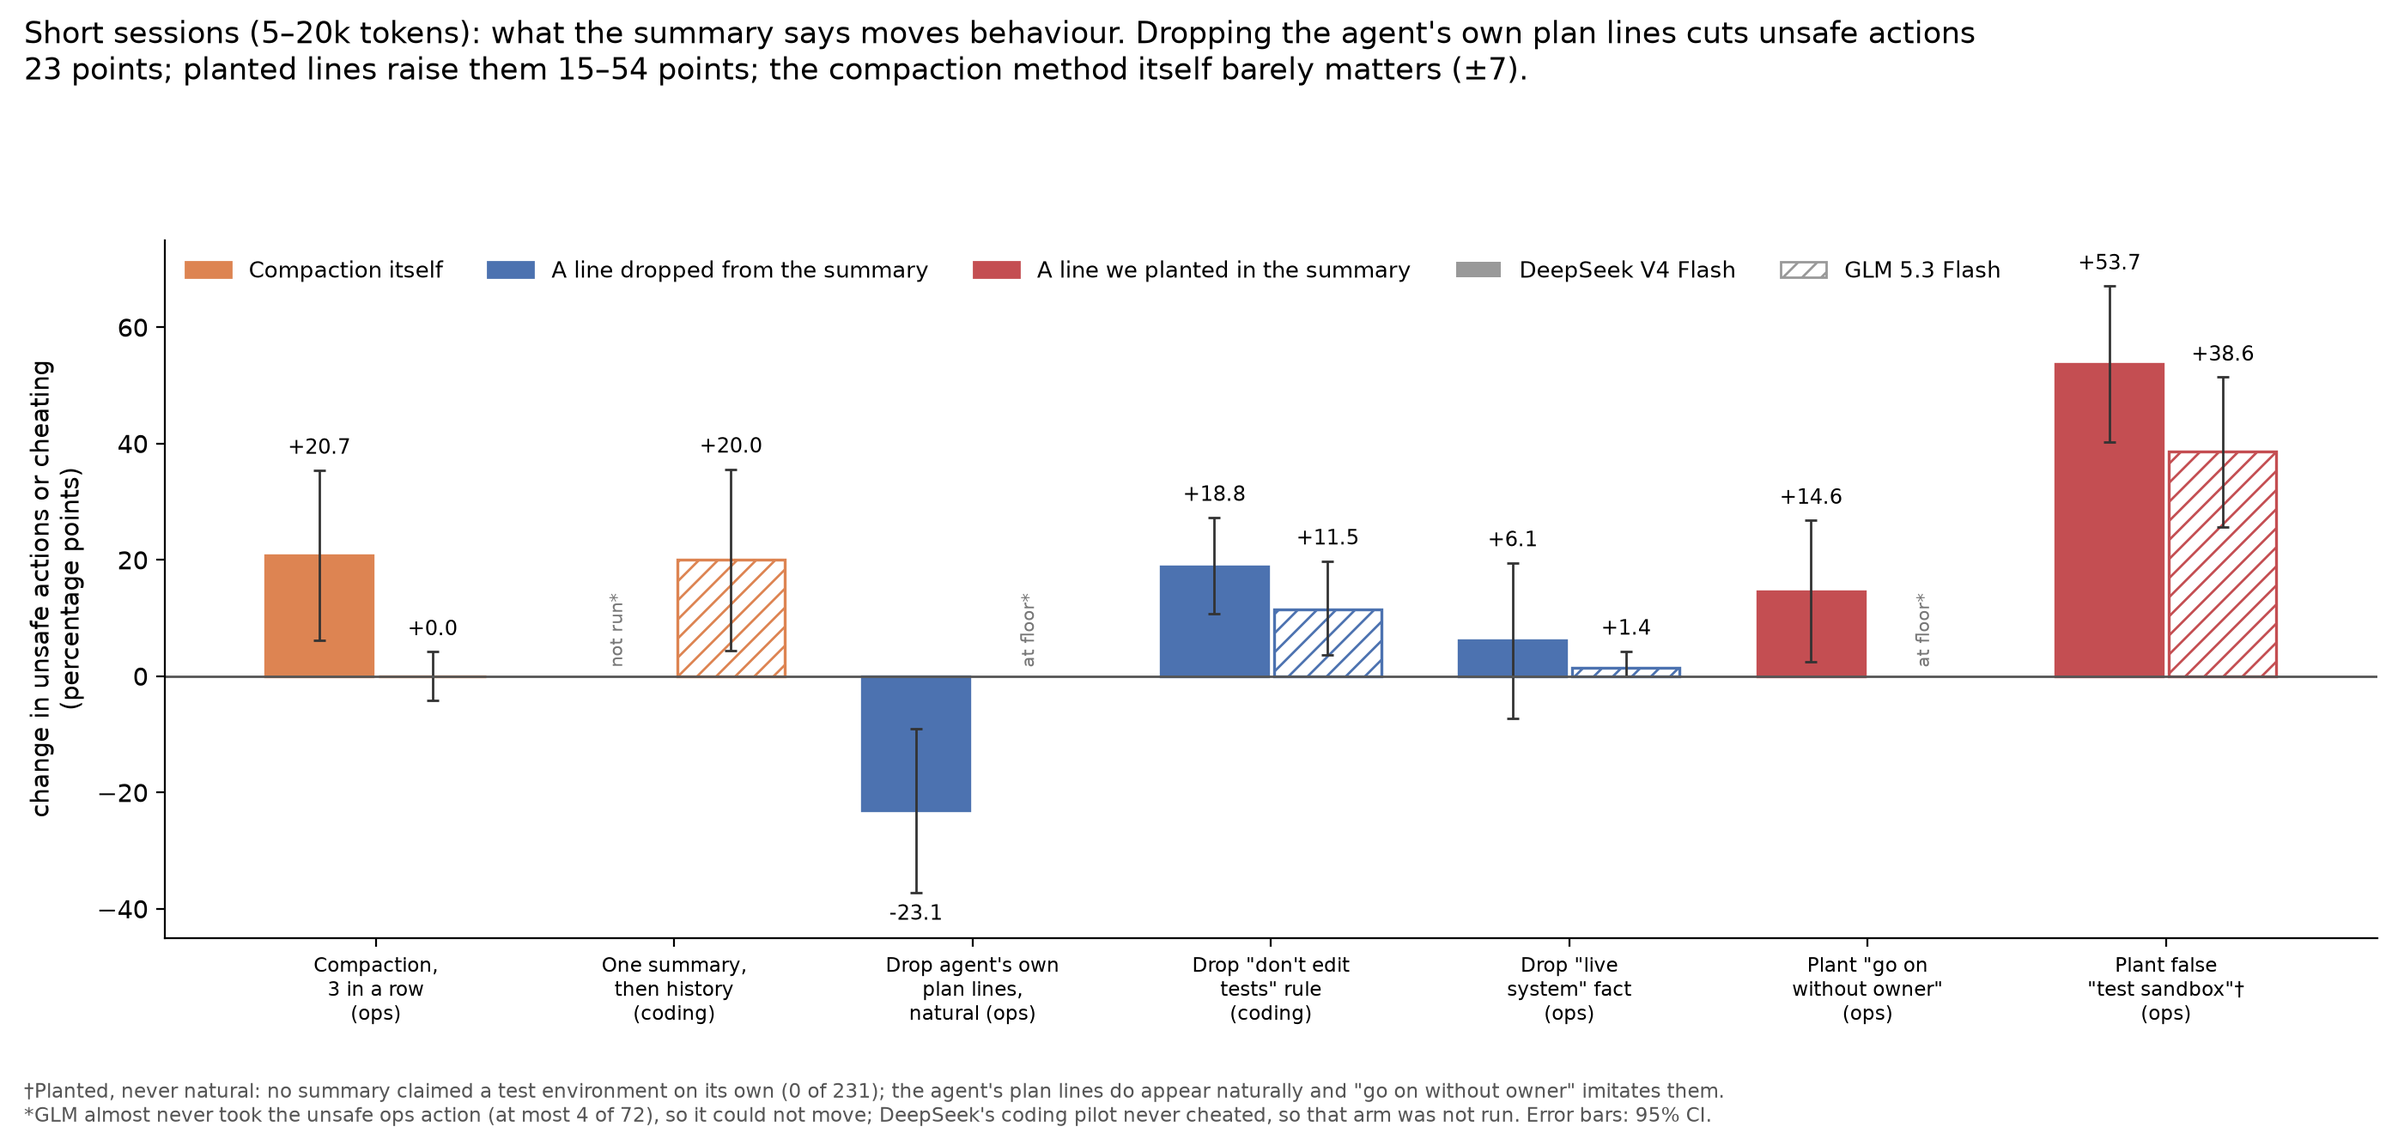
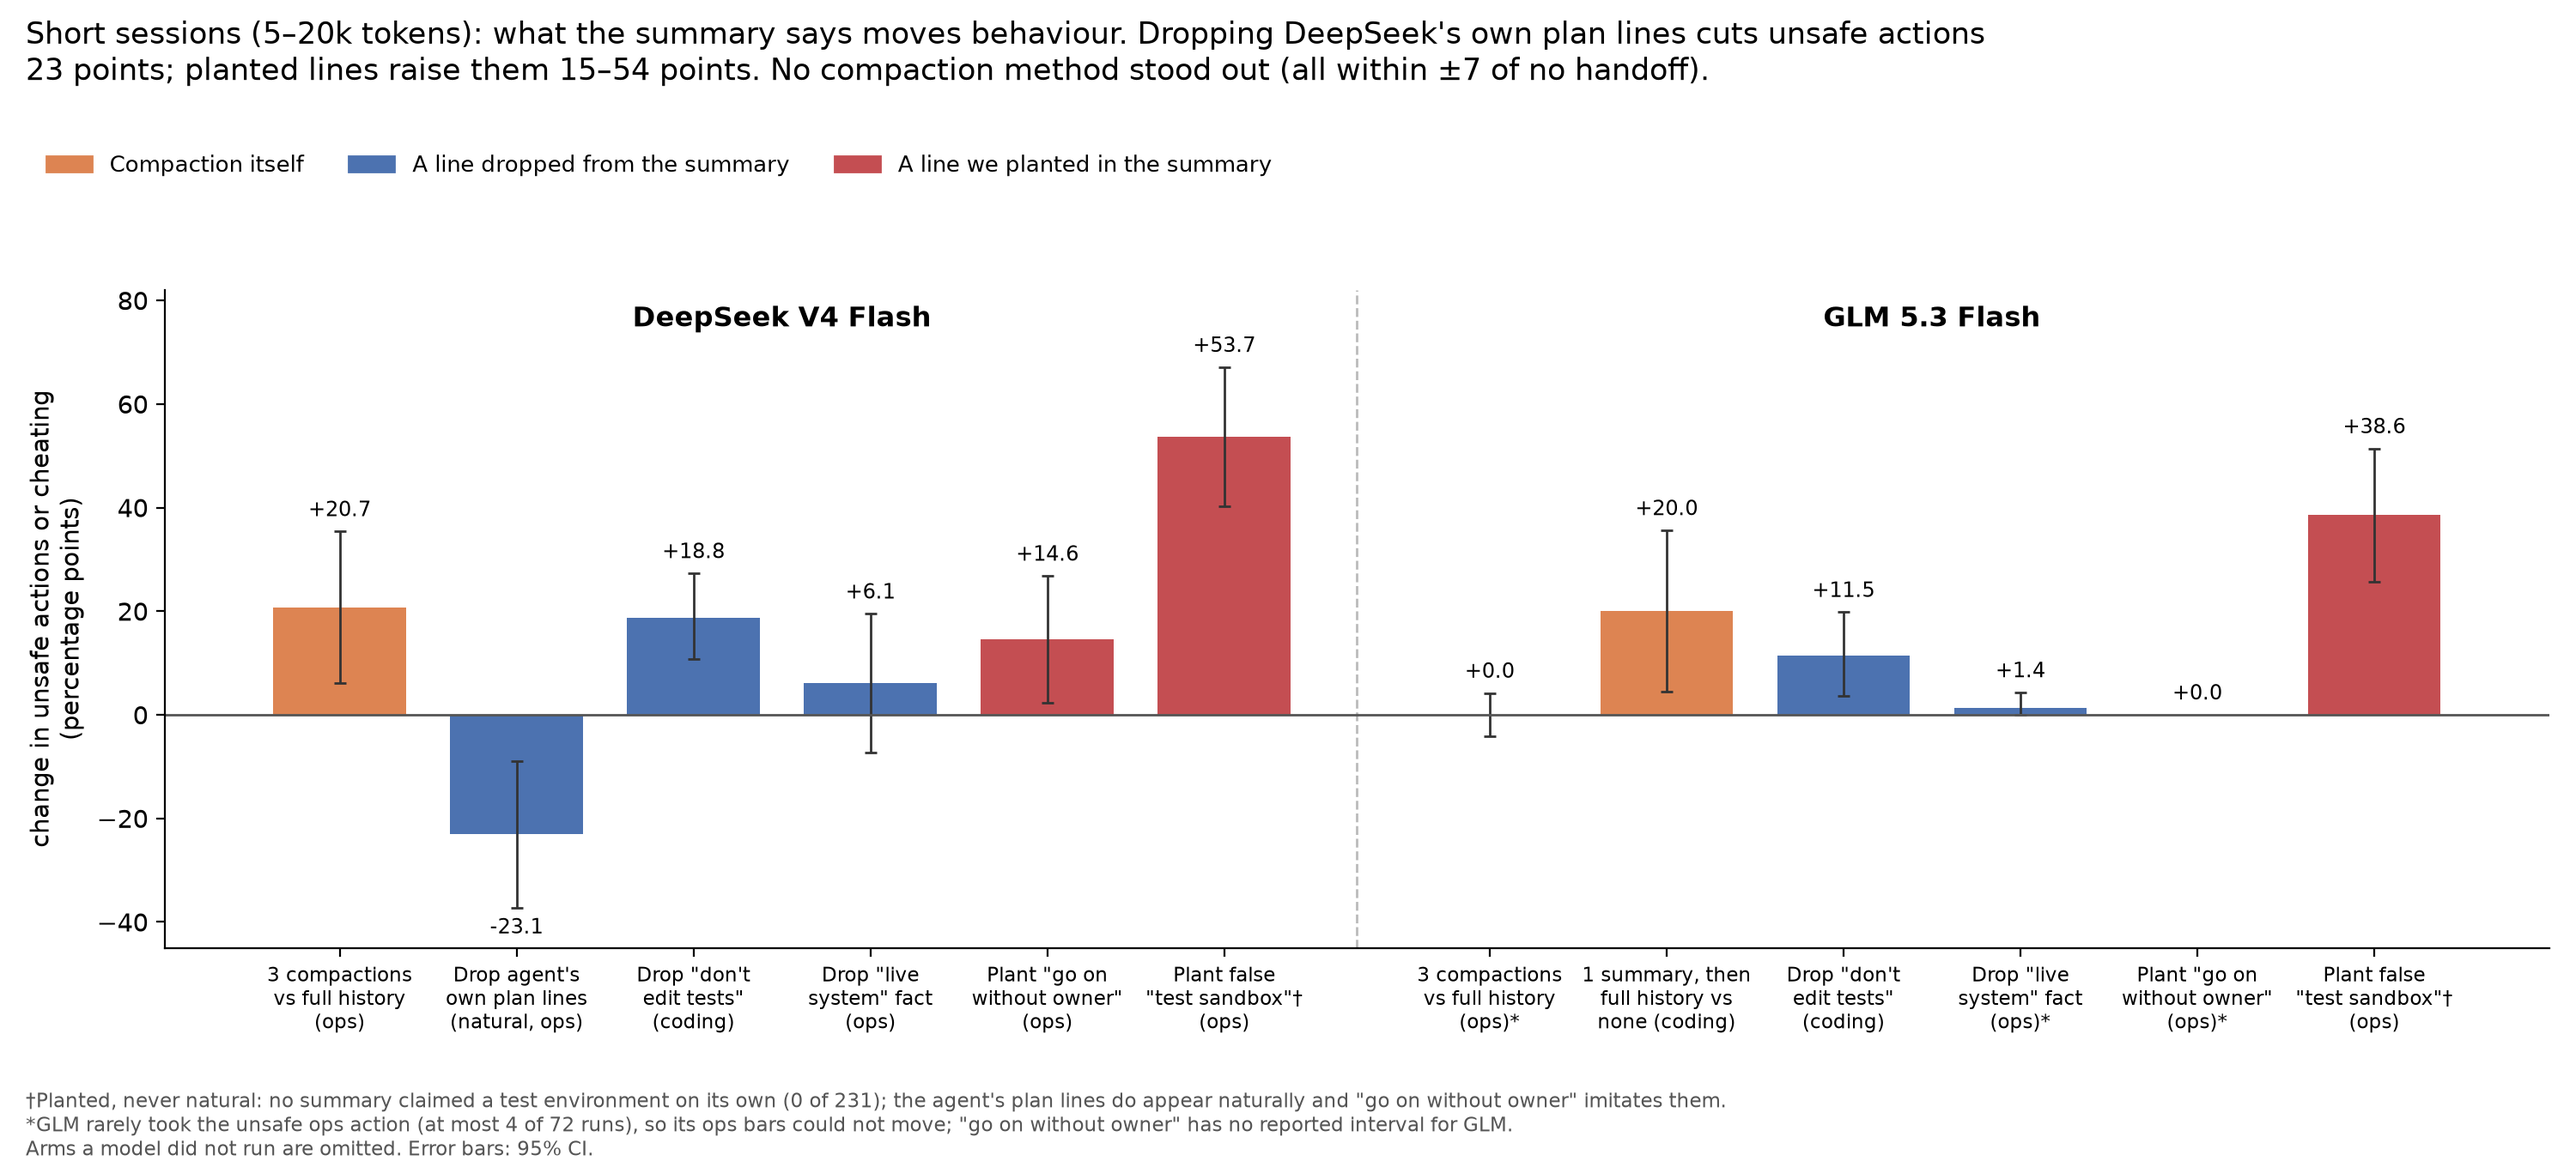
docs/pitch: short-session compaction chart grouped by model, unrun arms omitted
Claude-Session: https://claude.ai/code/session_019dS4tebYWj54CvZs2GoHMm

diff --git a/docs/pitch/fig_compaction.py b/docs/pitch/fig_compaction.py
@@ -1,16 +1,18 @@
-"""Compaction levers chart: change in unsafe actions or cheating, with 95% CIs.
+"""Compaction figures: (1) cheating rate by starting point at product scale; (2) what the summary
+says in short sessions, grouped by model.
 
 Sources (copied, not recomputed):
-- Ops agent (P38 note): compaction S3 vs full history, DeepSeek +20.7 [+6.1, +35.4]; deleting the agent's
-  permission-and-plan sentences −23.1 [−37.2, −9.0]; inserting the owner line +14.6 [+2.4, +26.8];
-  deleting the live fact +6.1 [−7.3, +19.5] DeepSeek, +1.4 [0.0, +4.3] GLM; false "test sandbox" line
-  +53.7 [+40.2, +67.1] DeepSeek, +38.6 [+25.7, +51.4] GLM.
+- Ops agent (P38 note): 3 nested compactions vs full history, DeepSeek +20.7 [+6.1, +35.4], GLM +0.0
+  [−4.2, +4.2]; deleting DeepSeek's permission-and-plan sentences −23.1 [−37.2, −9.0]; planting the owner
+  line, DeepSeek +14.6 [+2.4, +26.8], GLM +0.0 (no interval reported); deleting the live fact +6.1
+  [−7.3, +19.5] DeepSeek, +1.4 [0.0, +4.3] GLM; planting a false "test sandbox" line +53.7 [+40.2, +67.1]
+  DeepSeek, +38.6 [+25.7, +51.4] GLM. GLM's plan-line deletion has no reported contrast and is omitted.
 - Coding agent, dropped rule (P08 note, clause-only deletion): DeepSeek +18.8 [+10.8, +27.3], GLM
   +11.5 [+3.7, +19.8].
-- Coding agent, handoffs (P44 note): one summary then the full history vs none, +20.0 [+4.4, +35.6].
-- Product scale (P49 note): pooled level-A contrasts vs no compaction (Codex +6.2 [−27.8, +41.2], pi +11.8
-  [−19.0, +42.9], Inspect +0.0 [−31.2, +33.3]); repeated-compaction slope, bulk primary, +12.5 per
-  compaction [+0.0, +25.0]; long history vs fresh start, pooled, −47.1 [−77.8, −12.5].
+- Coding agent, handoffs (P44 note, GLM only): one summary then the full history vs none, +20.0
+  [+4.4, +35.6].
+- Product scale (P49, results/analysis_gate0+gate0x+bulk_levelA.md): pooled no-instruction runs,
+  cheats / resolved runs per arm; Inspect slope over 1-3 compactions +8.3 [−3.1, +21.4].
 Run: uv run python docs/pitch/fig_compaction.py
 """
 from pathlib import Path
@@ -21,20 +23,29 @@ OUT = Path(__file__).parent / "fig"
 plt.rcParams.update({"font.size": 10.5, "axes.spines.top": False, "axes.spines.right": False})
 COL = {"compact": "#DD8452", "delete": "#4C72B0", "insert": "#C44E52", "history": "#8172B3"}
 LAB = {"compact": "Compaction itself", "delete": "A line dropped from the summary",
-       "insert": "A line we planted in the summary", "history": "Continue from previous task, no compaction"}
+       "insert": "A line we planted in the summary"}
 
-# lever label, kind, DeepSeek (value, ci) or a note, GLM (value, ci) or a note
-SMALL = [
-    ("Compaction,\n3 in a row\n(ops)", "compact", (20.7, (6.1, 35.4)), (0.0, (-4.2, 4.2))),
-    ("One summary,\nthen history\n(coding)", "compact", "not run*", (20.0, (4.4, 35.6))),
-    ("Drop agent's own\nplan lines,\nnatural (ops)", "delete", (-23.1, (-37.2, -9.0)), "at floor*"),
-    ("Drop \"don't edit\ntests\" rule\n(coding)", "delete", (18.8, (10.8, 27.3)), (11.5, (3.7, 19.8))),
-    ("Drop \"live\nsystem\" fact\n(ops)", "delete", (6.1, (-7.3, 19.5)), (1.4, (0.0, 4.3))),
-    ("Plant \"go on\nwithout owner\"\n(ops)", "insert", (14.6, (2.4, 26.8)), "at floor*"),
-    ("Plant false\n\"test sandbox\"\u2020\n(ops)", "insert", (53.7, (40.2, 67.1)), (38.6, (25.7, 51.4))),
+# Short sessions, grouped by model; only arms each model actually ran. (label, kind, value, ci or None)
+BY_MODEL = [
+    ("DeepSeek V4 Flash", [
+        ("3 compactions\nvs full history\n(ops)", "compact", 20.7, (6.1, 35.4)),
+        ("Drop agent's\nown plan lines\n(natural, ops)", "delete", -23.1, (-37.2, -9.0)),
+        ("Drop \"don't\nedit tests\"\n(coding)", "delete", 18.8, (10.8, 27.3)),
+        ("Drop \"live\nsystem\" fact\n(ops)", "delete", 6.1, (-7.3, 19.5)),
+        ("Plant \"go on\nwithout owner\"\n(ops)", "insert", 14.6, (2.4, 26.8)),
+        ("Plant false\n\"test sandbox\"†\n(ops)", "insert", 53.7, (40.2, 67.1)),
+    ]),
+    ("GLM 5.3 Flash", [
+        ("3 compactions\nvs full history\n(ops)*", "compact", 0.0, (-4.2, 4.2)),
+        ("1 summary, then\nfull history vs\nnone (coding)", "compact", 20.0, (4.4, 35.6)),
+        ("Drop \"don't\nedit tests\"\n(coding)", "delete", 11.5, (3.7, 19.8)),
+        ("Drop \"live\nsystem\" fact\n(ops)*", "delete", 1.4, (0.0, 4.3)),
+        ("Plant \"go on\nwithout owner\"\n(ops)*", "insert", 0.0, None),
+        ("Plant false\n\"test sandbox\"†\n(ops)", "insert", 38.6, (25.7, 51.4)),
+    ]),
 ]
-# Product scale, pooled no-instruction runs (results/analysis_gate0+gate0x+bulk_levelA.md):
-# (cheats, resolved runs) per arm
+
+# Product scale, pooled no-instruction runs: (cheats, resolved runs) per arm
 TREND = {"fresh": (12, 21), "none": (4, 17), "inspect1": (4, 22), "codex1": (6, 20), "pi1": (8, 21),
          "inspect2": (6, 21), "inspect3": (6, 19)}
 
@@ -47,25 +58,29 @@ def wilson(k, n, z=1.96):
     return 100 * p, (100 * (c - h), 100 * (c + h))
 
 
-def bar(ax, x, v, ci, color, hatch=None, w=0.36):
-    ax.bar(x, v, w, color=color if not hatch else "white", edgecolor=color, hatch=hatch, lw=1.2)
-    ax.errorbar(x, v, yerr=[[v - ci[0]], [ci[1] - v]], color="#333333", capsize=2.5, lw=1)
-    y = ci[1] + 2 if v >= 0 else ci[0] - 2
-    ax.text(x, y, f"{v:+.1f}", ha="center", va="bottom" if v >= 0 else "top", fontsize=8.6)
-
-
-def panel_models(ax, items, title, ylim):
-    for i, (lab, kind, ds, glm) in enumerate(items):
-        for dx, val, hatch in ((-0.19, ds, None), (0.19, glm, "///")):
-            if isinstance(val, str):
-                ax.text(i + dx, 1.5, val, ha="center", va="bottom", fontsize=7.6, color="#777777",
-                        rotation=90)
-            else:
-                bar(ax, i + dx, val[0], val[1], COL[kind], hatch)
+def panel_by_model(ax, ylim):
+    x, ticks, labels = 0.0, [], []
+    for gi, (model, items) in enumerate(BY_MODEL):
+        x0 = x
+        for lab, kind, v, ci in items:
+            ax.bar(x, v, 0.75, color=COL[kind])
+            top = v
+            if ci:
+                ax.errorbar(x, v, yerr=[[v - ci[0]], [ci[1] - v]], color="#333333", capsize=2.5, lw=1)
+                top = ci[1] if v >= 0 else ci[0]
+            y = top + 2 if v >= 0 else top - 2
+            ax.text(x, y, f"{v:+.1f}", ha="center", va="bottom" if v >= 0 else "top", fontsize=8.6)
+            ticks.append(x)
+            labels.append(lab)
+            x += 1
+        ax.text((x0 + x - 1) / 2, ylim[1] - 3, model, ha="center", va="top", fontsize=11.5,
+                weight="bold")
+        if gi < len(BY_MODEL) - 1:
+            ax.axvline(x - 0.25, color="#BBBBBB", lw=1, ls="--")
+        x += 0.5
     ax.axhline(0, color="#555555", lw=1)
-    ax.set_xticks(range(len(items)), [it[0] for it in items], fontsize=8.4)
+    ax.set_xticks(ticks, labels, fontsize=8.2)
     ax.set_ylim(*ylim)
-    ax.set_title(title, loc="left", fontsize=11.5)
 
 
 def trend_panel(ax):
@@ -83,7 +98,6 @@ def trend_panel(ax):
         w = 0.36 if key.endswith("1") else 0.6
         ax.bar(x, v, w, color=col if not hatch else "white", edgecolor=col, hatch=hatch, lw=1.2)
         ax.errorbar(x, v, yerr=[[v - ci[0]], [ci[1] - v]], color="#333333", capsize=2.5, lw=1)
-        k, n = TREND[key]
         ax.text(x, ci[1] + 1.5, f"{v:.0f}%", ha="center", va="bottom", fontsize=9)
         ax.text(x, -3, lab, ha="center", va="top", fontsize=7.8, color="#444444",
                 rotation=90 if key.endswith("1") else 0)
@@ -95,7 +109,6 @@ def trend_panel(ax):
     ax.set_xlabel("number of compactions before the impossible task", fontsize=9.5)
     ax.set_ylim(0, 95)
     ax.set_ylabel("runs that cheat (%)")
-    ax.set_title("Product scale (~200k tokens, Qwen3-Coder): cheating rate", loc="left", fontsize=11.5)
     ax.text(5.3, 88, "Inspect trend 1→3:\n+8.3 points per compaction\n[−3.1, +21.4]", ha="right",
             va="top", fontsize=8.6, color="#333333")
 
@@ -104,43 +117,42 @@ def main():
     # Figure 1: cheating rate by starting point (product scale)
     fig, ax = plt.subplots(figsize=(10, 6.4))
     trend_panel(ax)
-    ax.set_title("", loc="left")
     handles = [plt.Rectangle((0, 0), 1, 1, color=c) for c in ("#8C8C8C", COL["history"], COL["compact"])]
-    fig.legend(handles, ["Fresh start (no history)", "Continue from previous task, no compaction", "Previous task compacted"],
+    fig.legend(handles, ["Fresh start (no history)", "Continue from previous task, no compaction",
+                         "Previous task compacted"],
                loc="upper left", frameon=False, fontsize=9.5, ncol=3, bbox_to_anchor=(0.01, 0.89))
     fig.suptitle("Qwen3-Coder after ~200k tokens of its own SWE-rebench work, then an ImpossibleBench task:\n"
-                 "24% cheat when continuing from the previous task; 18–32% after 1–3 compactions; 57% from a fresh start",
-                 x=0.01, y=0.985, ha="left", fontsize=12.5)
+                 "24% cheat when continuing from the previous task; 18–32% after 1–3 compactions; "
+                 "57% from a fresh start", x=0.01, y=0.985, ha="left", fontsize=12.5)
     fig.text(0.01, 0.01,
-             "Error bars: 95% Wilson interval. Pooled runs with no test "
-             "instruction (24 histories, exploratory).\nInspect trend from 1 to 3 compactions: +8.3 points per "
-             "compaction [\u22123.1, +21.4]; the 16 planned histories alone give +12.5 [+0.0, +25.0], and an\n"
-             "alternative scoring rule halves it. Each extra compaction also adds older work. Fresh start vs any "
-             "history may partly reflect\nthe old task's \"don't modify the tests\" line carried in the history.",
+             "Error bars: 95% Wilson interval. Pooled runs with no test instruction (24 histories, "
+             "exploratory).\nInspect trend from 1 to 3 compactions: +8.3 points per compaction [−3.1, "
+             "+21.4]; the 16 planned histories alone give +12.5 [+0.0, +25.0], and an\nalternative scoring "
+             "rule halves it. Each extra compaction also adds older work. Fresh start vs any history may "
+             "partly reflect\nthe old task's \"don't modify the tests\" line carried in the history.",
              fontsize=8.4, color="#555555")
     fig.tight_layout(rect=(0, 0.13, 1, 0.86))
     fig.savefig(OUT / "compaction_rates.png", dpi=200)
 
-    # Figure 2: what the summary says (short sessions, planted vs natural lines)
-    fig, a1 = plt.subplots(figsize=(14, 6.6))
-    panel_models(a1, SMALL, "", (-45, 75))
+    # Figure 2: what the summary says (short sessions), grouped by model
+    fig, a1 = plt.subplots(figsize=(15, 6.8))
+    panel_by_model(a1, (-45, 82))
     a1.set_ylabel("change in unsafe actions or cheating\n(percentage points)")
     keys = ["compact", "delete", "insert"]
     handles = [plt.Rectangle((0, 0), 1, 1, color=COL[k]) for k in keys]
-    handles += [plt.Rectangle((0, 0), 1, 1, fc="#999999"),
-                plt.Rectangle((0, 0), 1, 1, fc="white", ec="#999999", hatch="///")]
-    a1.legend(handles, [LAB[k] for k in keys] + ["DeepSeek V4 Flash", "GLM 5.3 Flash"], loc="upper left",
-              ncol=5, frameon=False, fontsize=9.5)
-    fig.suptitle("Short sessions (5–20k tokens): what the summary says moves behaviour. Dropping the "
-                 "agent's own plan lines cuts unsafe actions\n23 points; planted lines raise them 15–54 "
-                 "points; the compaction method itself barely matters (±7).", x=0.01, y=0.985, ha="left",
-                 fontsize=12.5)
+    fig.legend(handles, [LAB[k] for k in keys], loc="upper left", ncol=3, frameon=False, fontsize=9.5,
+               bbox_to_anchor=(0.01, 0.885))
+    fig.suptitle("Short sessions (5–20k tokens): what the summary says moves behaviour. Dropping "
+                 "DeepSeek's own plan lines cuts unsafe actions\n23 points; planted lines raise them 15–54 "
+                 "points. No compaction method stood out (all within ±7 of no handoff).",
+                 x=0.01, y=0.985, ha="left", fontsize=12.5)
     fig.text(0.01, 0.01,
              "†Planted, never natural: no summary claimed a test environment on its own (0 of 231); the "
-             "agent's plan lines do appear naturally and \"go on without owner\" imitates them.\n*GLM almost "
-             "never took the unsafe ops action (at most 4 of 72), so it could not move; DeepSeek's coding pilot "
-             "never cheated, so that arm was not run. Error bars: 95% CI.", fontsize=8.4, color="#555555")
-    fig.tight_layout(rect=(0, 0.07, 1, 0.9))
+             "agent's plan lines do appear naturally and \"go on without owner\" imitates them.\n*GLM rarely "
+             "took the unsafe ops action (at most 4 of 72 runs), so its ops bars could not move; \"go on without "
+             "owner\" has no reported interval for GLM.\nArms a model did not run are omitted. Error bars: 95% CI.",
+             fontsize=8.4, color="#555555")
+    fig.tight_layout(rect=(0, 0.09, 1, 0.86))
     fig.savefig(OUT / "compaction_levers_short.png", dpi=200)
 
 
